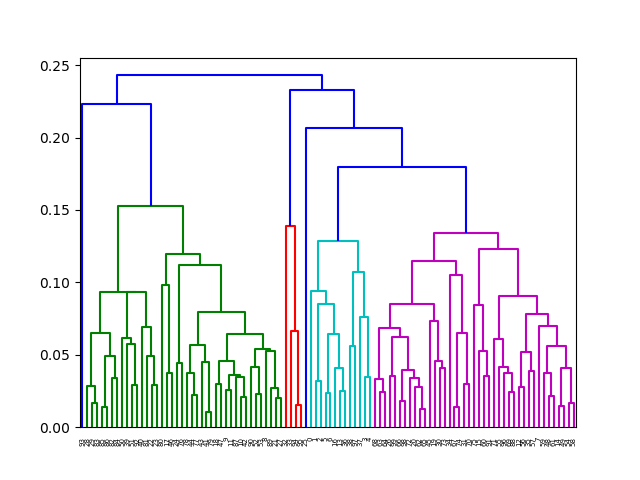
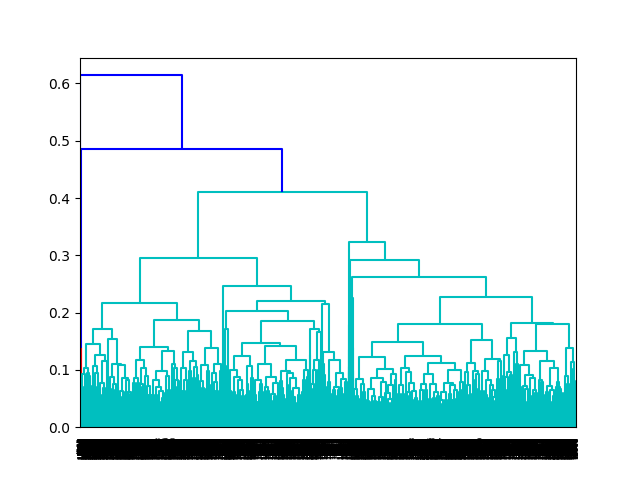
ini

diff --git a/Main.py b/Main.py
@@ -25,7 +25,7 @@ All_keys=[]
 for key, value in dataslice.items():
     All_keys.append(key)
 
-data4hierarchy = 100
+data4hierarchy = -1
 from Tools import Data4HC
 Points = Data4HC(Interested_data[0:data4hierarchy],All_keys[0:-1])
 
@@ -41,12 +41,42 @@ disMat = sch.distance.pdist(Points,'euclidean')
 print('disMat finished')
 #进行层次聚类:
 Z=sch.linkage(disMat,method='average')
+print('linkage finished')
 #将层级聚类结果以树状图表示出来并保存为plot_dendrogram.png
 P=sch.dendrogram(Z)
 plt.savefig('plot_dendrogram.png')
 #根据linkage matrix Z得到聚类结果:
-cluster = sch.fcluster(Z, t=1,criterion='inconsistent')
-
+cluster = sch.fcluster(Z, t=0.1,criterion='distance')
+print('cluster finished')
 print("Original cluster by hierarchy clustering:{}".format(cluster))
+
+#2. k-means聚类
+#将原始数据做归一化处理
+data=whiten(Points)
+print('data whiten finished')
+#使用kmeans函数进行聚类,输入第一维为数据,第二维为聚类个数k.
+#有些时候我们可能不知道最终究竟聚成多少类,一个办法是用层次聚类的结果进行初始化.当然也可以直接输入某个数值.
+#k-means最后输出的结果其实是两维的,第一维是聚类中心,第二维是损失distortion
+centroid=kmeans(data,max(cluster))
+print('k-means finished')
+
+#使用vq函数根据聚类中心对所有数据进行分类,vq的输出也是两维的,[0]表示的是所有数据的label
+label=vq(data,centroid[0])
+k_means_label = label[0]
+
+print ('Final clustering by k-means:{}'.format(k_means_label))
+
+n = 0
+for line in Interested_data:
+    if n+1 == len(k_means_label):
+        n = -1
+    line['attributes']['Cluster'] = int(k_means_label[n])
+    for kept_key in All_keys0[0:14]:
+        line['attributes'][kept_key] = alldata['features'][n]['attributes'][kept_key]
+    n = n+1
+print('label append to alldata finished')
+fp = open('Out.json','w')
+json.dump(Interested_data,fp)
+fp.close()
 
 print('none')

diff --git a/Out2Arcgis.py b/Out2Arcgis.py
@@ -1,0 +1,33 @@
+# -*- coding:utf-8 -*-
+import json
+path="StreetViewPictures_point_Seg.json"
+with open(path,'r') as f:
+    alldata=json.load(f)
+    f.close()
+with open('Out.json','r') as f:
+    newdata=json.load(f)
+    f.close()
+
+dataslice = newdata[0]['attributes']
+Aliases = {}
+fields = []
+for key, value in dataslice.items():
+    Aliases[key] = key
+    fields.append({'name':key,'type':'esriFieldTypeDouble','alias':Aliases[key]})
+    if key == 'OBJECTID':
+        fields[-1]['type'] = 'esriFieldTypeOID'
+    elif key in ['Value_','LineOID','CV']:
+        fields[-1]['type'] = 'esriFieldTypeString'
+        fields[-1]['length'] = 255
+        if key == 'CV':
+            fields[-1]['length'] = 2000
+    elif key in ['pointID','ROAD_ID','pano_id']:
+        fields[-1]['type'] = 'esriFieldTypeInteger'
+
+alldata['features'] = newdata
+alldata['fields'] = fields
+alldata['fieldAliases'] = Aliases
+fp = open('St_View_Point_Kmeans.json','w')
+json.dump(alldata,fp)
+fp.close()
+print('Out2Arcgis finished')

diff --git a/Out2Arcgis2.py b/Out2Arcgis2.py
@@ -1,0 +1,31 @@
+# -*- coding:utf-8 -*-
+import json
+path="StreetViewPictures_point_Seg.json"
+with open(path,'r') as f:
+    alldata=json.load(f)
+    f.close()
+with open('Out.json','r') as f:
+    newdata=json.load(f)
+    f.close()
+
+n = 0
+for item in newdata:
+    item = item['attributes']
+    nn = 15
+    for key,value in item.items():
+        all_data_key = alldata['fields'][nn]['name']
+        alldata['fields'][nn]['alias'] = key
+        alldata['fieldAliases'][all_data_key] = key
+        alldata['features'][n]['attributes'][all_data_key] = value
+        nn = nn+1
+        if key == 'Cluster':
+            break
+    n = n+1
+
+fp = open('St_View_Point_Kmeans_2.json','w')
+json.dump(alldata,fp)
+fp.close()
+
+from Tools import get_list_by_key
+Cluster = get_list_by_key(alldata['features'],'Pavement')
+print('Out2Arcgis2 finished')

diff --git a/Tools.py b/Tools.py
@@ -1,3 +1,4 @@
+# -*- coding:utf-8 -*-
 #从data里面按照key提取所有POI的key的value组成新的数组
 def get_list_by_key(data,key):
     Out=[]
